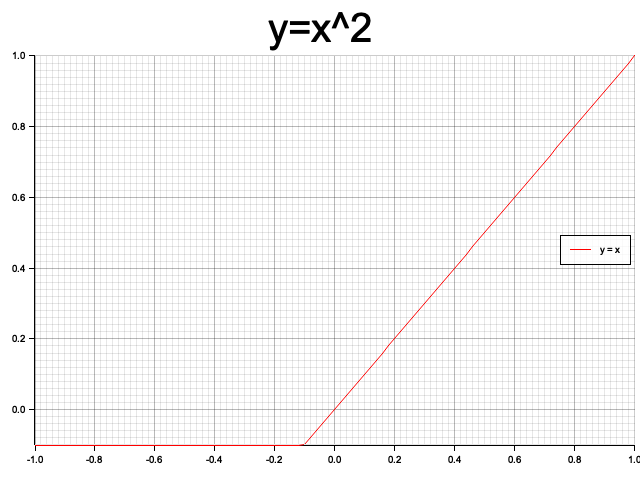
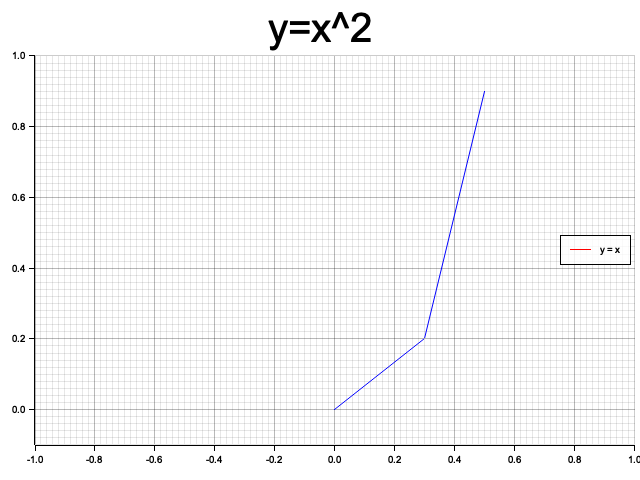
ah i need to ignore outpout; ; gi

diff --git a/src/charts.rs b/src/charts.rs
@@ -1,6 +1,6 @@
 use plotters::prelude::*;
 
-fn wat() -> Result<(), Box<dyn std::error::Error>> {
+fn wat(plots: Vec<(f32, f32)>) -> Result<(), Box<dyn std::error::Error>> {
     let root = BitMapBackend::new("output/my_chart.png", (640, 480)).into_drawing_area();
 
     std::fs::create_dir_all("output")?;
@@ -18,8 +18,8 @@ fn wat() -> Result<(), Box<dyn std::error::Error>> {
 
     chart
         .draw_series(LineSeries::new(
-            (-50..=50).map(|x| x as f32 / 50.0).map(|x| (x, x)),
-            &RED,
+            plots,
+            &BLUE,
         ))?
         .label("y = x")
         .legend(|(x, y)| PathElement::new(vec![(x, y), (x + 20, y)], &RED));
@@ -41,7 +41,9 @@ mod tests {
 
     #[test]
     fn wat_that_thang_do() {
-        match wat() {
+        let idk = vec![(0.0, 0.0), (0.3,0.2), (0.5, 0.9)];
+
+        match wat(idk) {
             Ok(_) => {assert!(true, "wat")}
             Err(e) => {panic!("wat {}", e)}
         }
